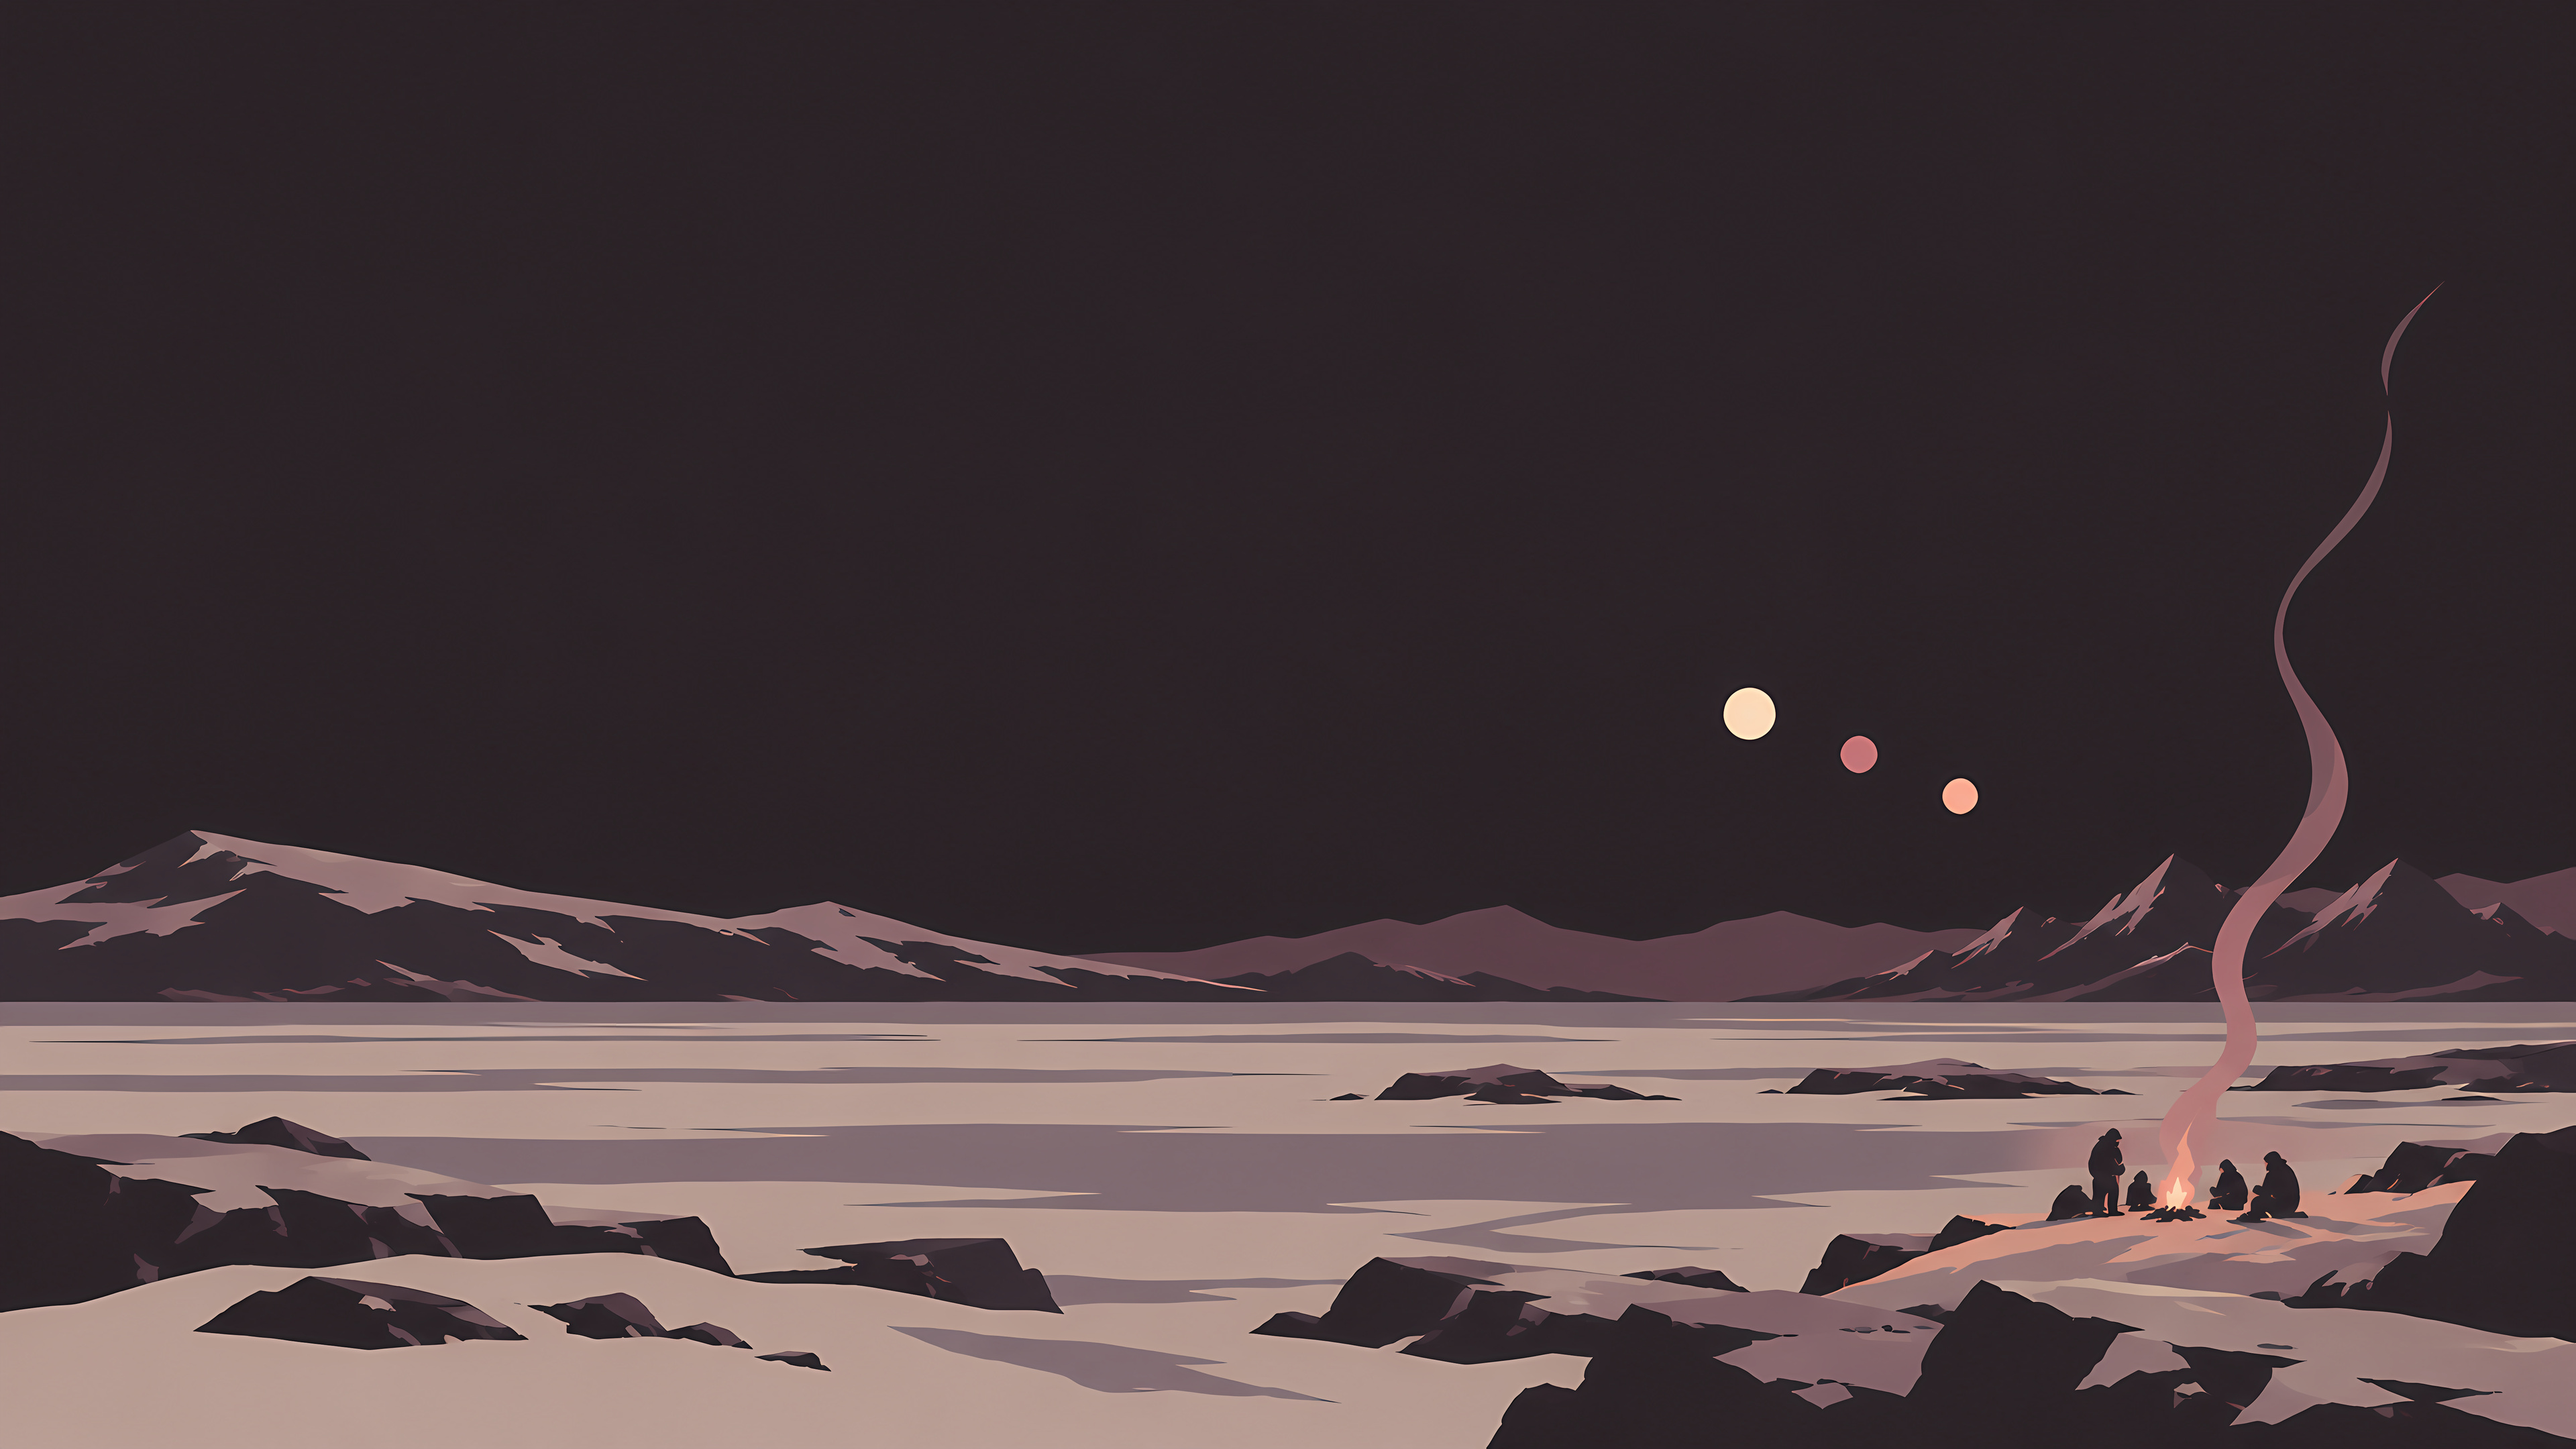
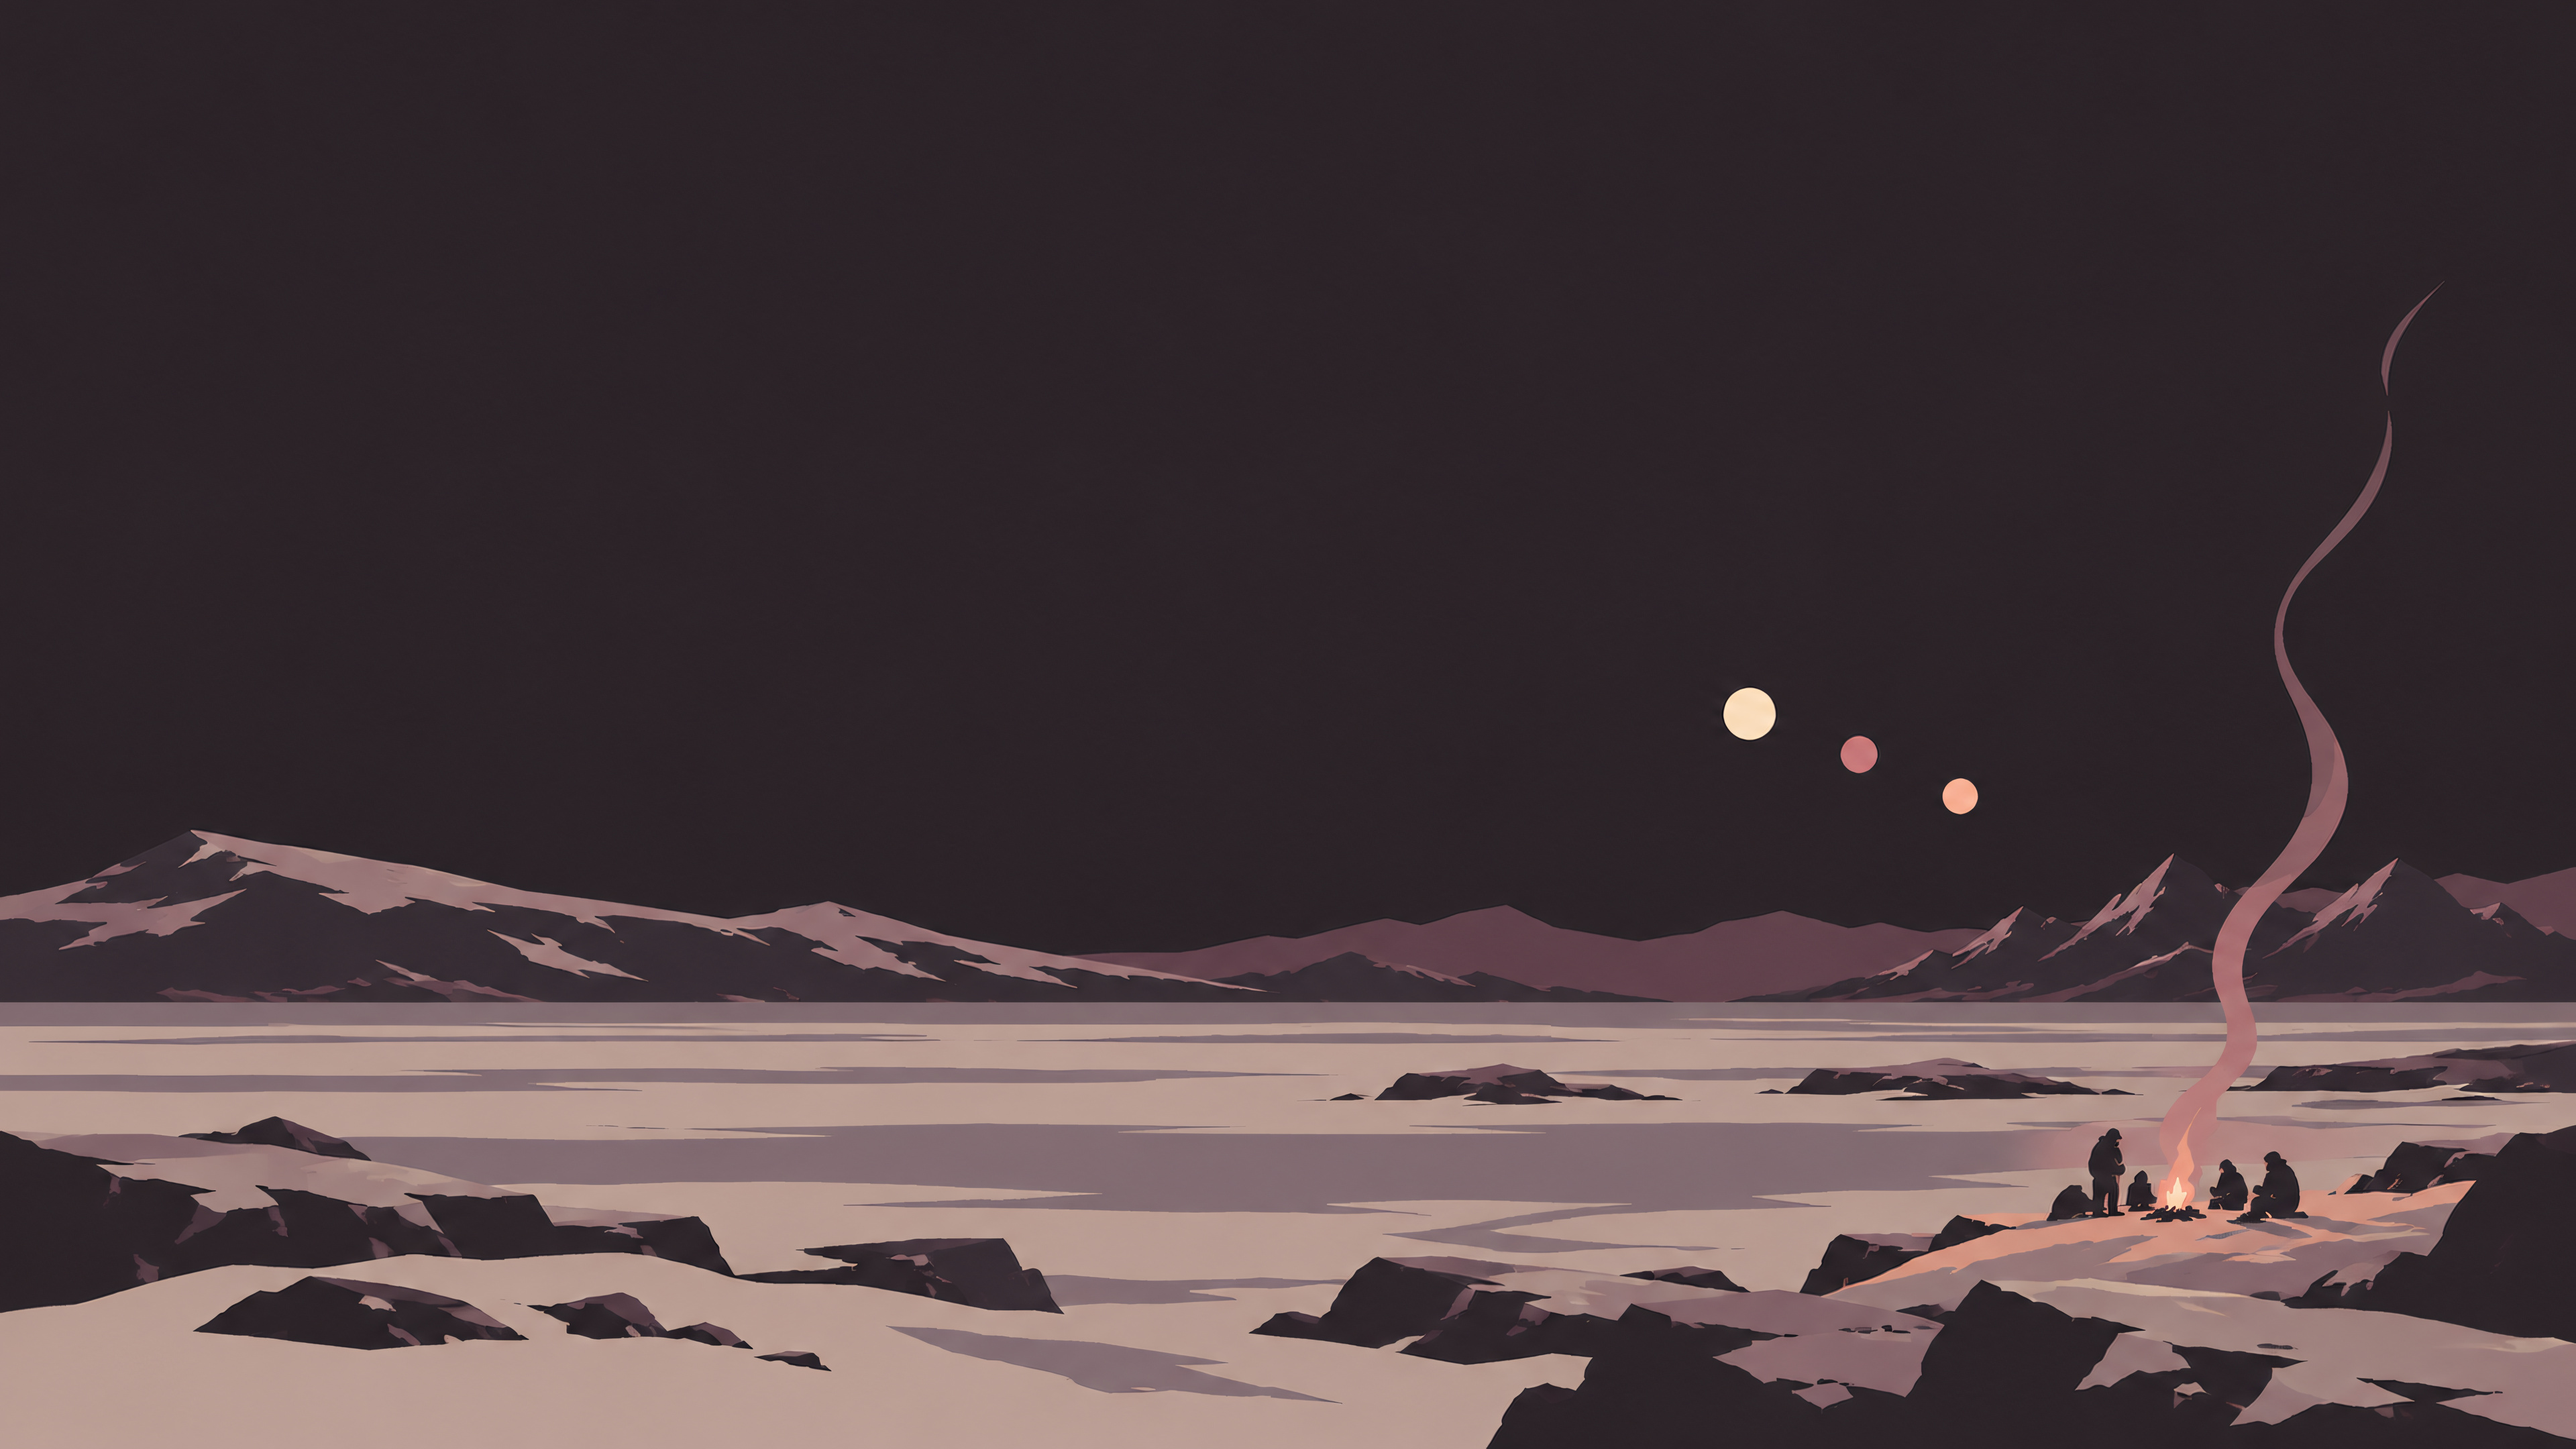
Re-upscale the wallpapers with Upscayl UltraMix Balanced
The previous blend kept the dark skies at the original's lower resolution
next to sharper monuments. All ten wallpapers are now upscaled in one pass
with Upscayl's UltraMix Balanced model: even fine grain in the skies, no
blotches or seams, one consistent sharpness, same colours.

Changed region(s): [[0.1562, 0.7134, 0.1875, 0.7444]]

diff --git a/backgrounds/SOURCES.md b/backgrounds/SOURCES.md
@@ -1,9 +1,8 @@
 # Wallpaper sources
 
 All ten wallpapers are AI-generated with Codex's image generation in a flat vector poster style, then
-upscaled to 3840x2160: Real-ESRGAN (x4plus-anime) for edges and detail, a plain Lanczos upscale of the
-original for flat areas like the sky, so the sky keeps its natural grain without blotches or tile seams. Colours are left as generated.
-They contain no frames from the series.
+upscaled to 3840x2160 with Upscayl's UltraMix Balanced model, which keeps the dark skies'
+fine grain instead of flattening it into blotches.
 
 | File | Scene |
 | --- | --- |
